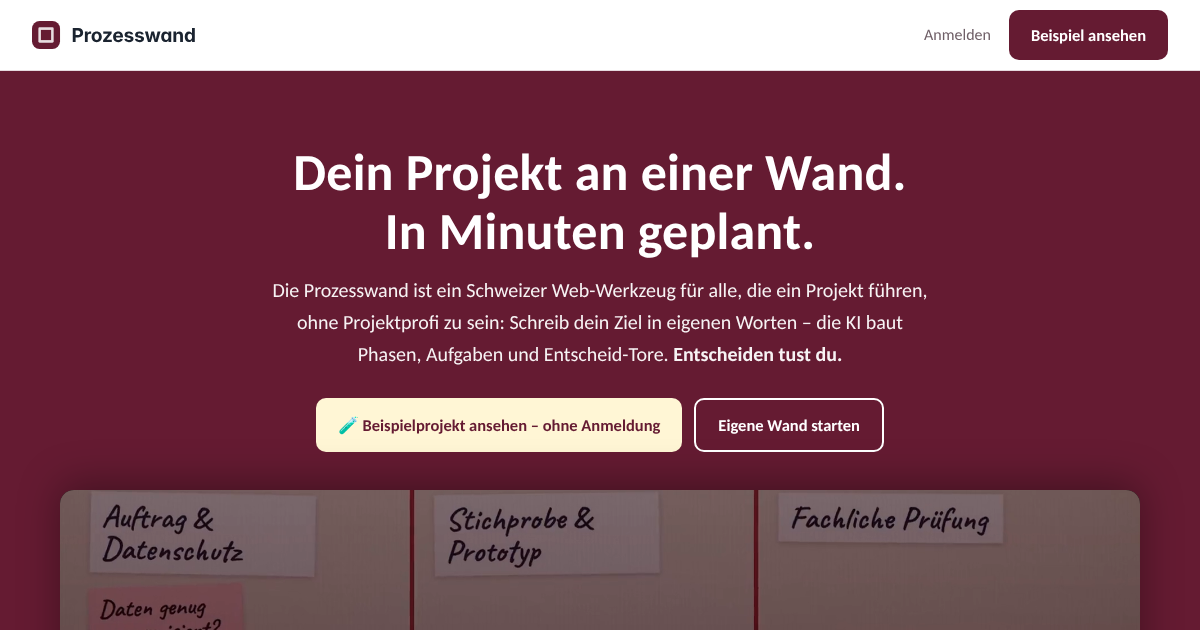
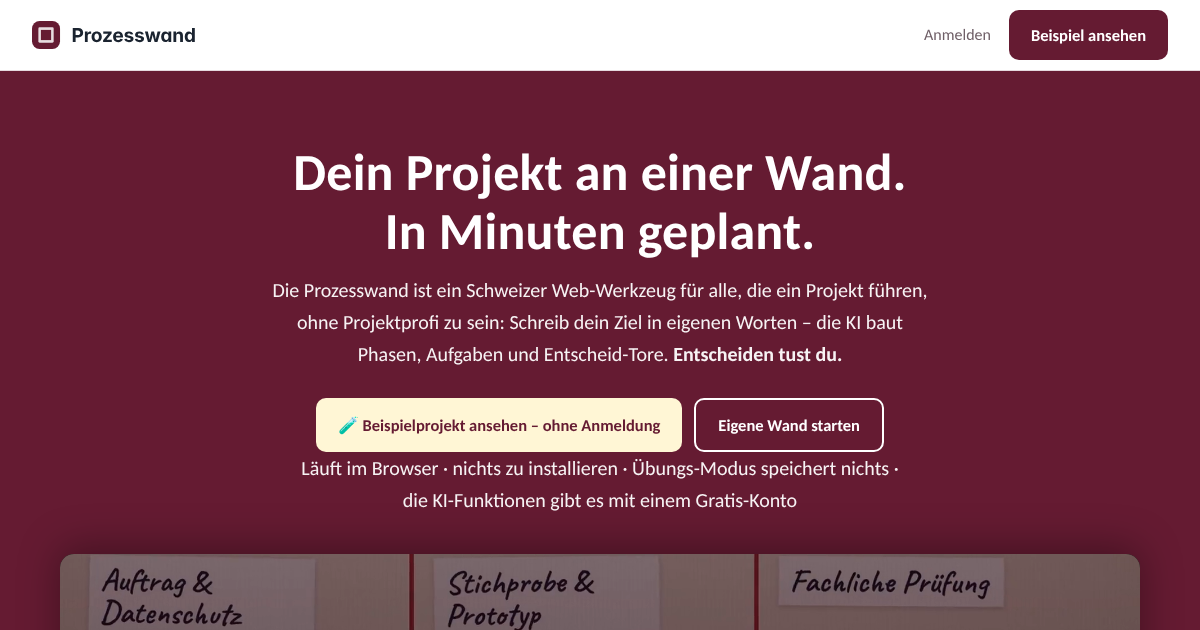
KI mit Gratis-Konto statt «eigener Schlüssel nötig»
- Hero, Ablauf, Preise und Fragen: Die KI läuft seit 01.11.2026 über das
  Gratis-Konto mit Start-Guthaben; eigener Anthropic-Schlüssel erst danach
  (Freigabe Dölf 07.11.2026). Preise unverändert.
- og.png mit dem neuen Satz

Claude-Session: https://claude.ai/code/session_018JyNZcKppzFDunfUCmKPdE

Changed region(s): [[0.0308, 0.7238, 0.9558, 1.0]]

diff --git a/index.html b/index.html
@@ -12,12 +12,12 @@
 <meta property="og:url" content="https://prozesswand.ch/">
 <meta property="og:title" content="Prozesswand – dein Projekt auf einen Blick">
 <meta property="og:description" content="Projekte planen wie an der Moderationswand – mit KI-Hilfe, Entscheid-Toren und fertigen Dokumenten. Kostenlos im Browser, Beispielprojekt ohne Anmeldung.">
-<meta property="og:image" content="https://prozesswand.ch/og.png?v=0611">
+<meta property="og:image" content="https://prozesswand.ch/og.png?v=0711">
 <meta property="og:locale" content="de_CH">
 <meta name="twitter:card" content="summary_large_image">
 <meta name="twitter:title" content="Prozesswand – dein Projekt auf einen Blick">
 <meta name="twitter:description" content="Projekte planen wie an der Moderationswand – mit KI-Hilfe, Entscheid-Toren und fertigen Dokumenten.">
-<meta name="twitter:image" content="https://prozesswand.ch/og.png?v=0611">
+<meta name="twitter:image" content="https://prozesswand.ch/og.png?v=0711">
 <script type="application/ld+json">
 {
   "@context": "https://schema.org",
@@ -206,7 +206,7 @@ footer .flinks a { min-height:44px; display:inline-flex; align-items:center; tex
     <a class="btn btn-invert" href="prozesswand.html">Eigene Wand starten</a>
   </div>
   <p class="hero-note">Läuft im Browser · nichts zu installieren · Übungs-Modus speichert nichts ·
-  für die KI-Funktionen brauchst du zurzeit einen eigenen KI-Schlüssel</p>
+  <span style="white-space:nowrap">die KI-Funktionen</span> gibt es mit einem Gratis-Konto</p>
   <div class="hero-bild">
     <video src="videos/werbevideo.mp4?v=0611c" autoplay muted loop playsinline controls preload="metadata"
            poster="bilder/werbevideo-poster.jpg?v=0611c" width="1280" height="720"
@@ -247,7 +247,7 @@ footer .flinks a { min-height:44px; display:inline-flex; align-items:center; tex
         <p>Du schreibst auf, was du erreichen willst – die Wand macht das Ziel mit dir messbar (SMART), mit einfachen Fragen statt Fachsprache.</p></div>
       <div class="schritt"><b>Die KI baut den Entwurf</b>
         <p>Sechs KI-Helfer entwerfen Phasen, Aufgaben, Risiken und den Ablauf. Alles erscheint zuerst als Vorschau – übernommen wird nur, was du bestätigst.
-        (Dafür brauchst du zurzeit einen eigenen Anthropic-Schlüssel – das Beispielprojekt geht ohne.)</p></div>
+        (Dafür brauchst du ein Gratis-Konto – das Beispielprojekt geht ohne.)</p></div>
       <div class="schritt"><b>Du steuerst an den Toren</b>
         <p>An jedem Phasenende steht ein Entscheid-Tor. Das Dashboard zeigt dir höchstens drei Dinge, die auf dich warten – nie eine endlose Liste.</p></div>
     </div>
@@ -341,9 +341,10 @@ footer .flinks a { min-height:44px; display:inline-flex; align-items:center; tex
 
   <section id="preise" aria-labelledby="h-preise">
     <h2 id="h-preise">Was kostet die Prozesswand?</h2>
-    <p class="sub">Heute gilt: Die Prozesswand selbst ist kostenlos. Nur für die KI-Funktionen
-    brauchst du zurzeit einen eigenen Anthropic-Schlüssel – dessen Nutzung verrechnet Anthropic
-    direkt (typisch wenige Rappen pro Anwendung). Die Preise unten sind geplant –
+    <p class="sub">Heute gilt: Die Prozesswand selbst ist kostenlos. Für die KI-Funktionen bekommt
+    jedes Gratis-Konto ein Start-Guthaben. Ist es aufgebraucht, kannst du einen eigenen
+    Anthropic-Schlüssel eintragen – dessen Nutzung verrechnet Anthropic direkt (typisch wenige
+    Rappen pro Anwendung). Die Preise unten sind geplant –
     deine Meinung dazu interessiert mich.</p>
     <div class="preise">
       <div><b class="kopf"><span class="zeichen" aria-hidden="true"></span>Prozesswand</b>Eine Wand: <b>gratis</b> – mit allen Kernfunktionen.<br>
@@ -362,16 +363,16 @@ footer .flinks a { min-height:44px; display:inline-flex; align-items:center; tex
   <section class="faq" aria-labelledby="h-faq">
     <h2 id="h-faq">Häufige Fragen</h2>
     <details><summary>Was kostet die Prozesswand wirklich?</summary>
-      <p>Die Prozesswand selbst kostet nichts. Einzig für die KI-Funktionen brauchst du im
-      Moment einen eigenen Anthropic-Schlüssel; dessen Nutzung verrechnet Anthropic direkt
-      (typisch wenige Rappen pro Anwendung). Die geplanten Preise stehen oben, damit du
+      <p>Die Prozesswand selbst kostet nichts. Für die KI-Funktionen bekommt jedes Konto ein
+      Start-Guthaben; danach kannst du einen eigenen Anthropic-Schlüssel eintragen, dessen
+      Nutzung Anthropic direkt verrechnet (typisch wenige Rappen pro Anwendung). Die geplanten Preise stehen oben, damit du
       weisst, worauf es hinausläuft. Und wenn es so weit ist: Kündigen geht mit einer
       einzigen Mail, Daten bleiben deine.</p></details>
     <details><summary>Brauche ich einen eigenen KI-Schlüssel?</summary>
-      <p>Zum Anschauen, für das Beispielprojekt und fürs Planen von Hand: nein.
-      Für die KI-Funktionen (Struktur bauen, Chat, Fragekatalog) brauchst du im Moment
-      einen eigenen Anthropic-Schlüssel – die Wand zeigt dir, wo er eingetragen wird.
-      Ein KI-Start-Guthaben für jedes Konto ist in Arbeit – sobald es bereit ist, steht es hier.</p></details>
+      <p>Nein. Zum Anschauen, für das Beispielprojekt und fürs Planen von Hand brauchst du gar nichts.
+      Für die KI-Funktionen (Struktur bauen, Chat, Fragekatalog) reicht ein Gratis-Konto:
+      Jedes Konto bekommt ein KI-Start-Guthaben. Ist es aufgebraucht, kannst du einen eigenen
+      Anthropic-Schlüssel eintragen – die Wand zeigt dir, wo.</p></details>
     <details><summary>Was passiert mit meinen Daten?</summary>
       <p>Deine Wände liegen in deinem Konto, gespeichert auf Servern in Zürich – nur für den Betrieb,
       kein Tracking, keine Werbung, keine Weitergabe. Für KI-Funktionen wird der nötige
